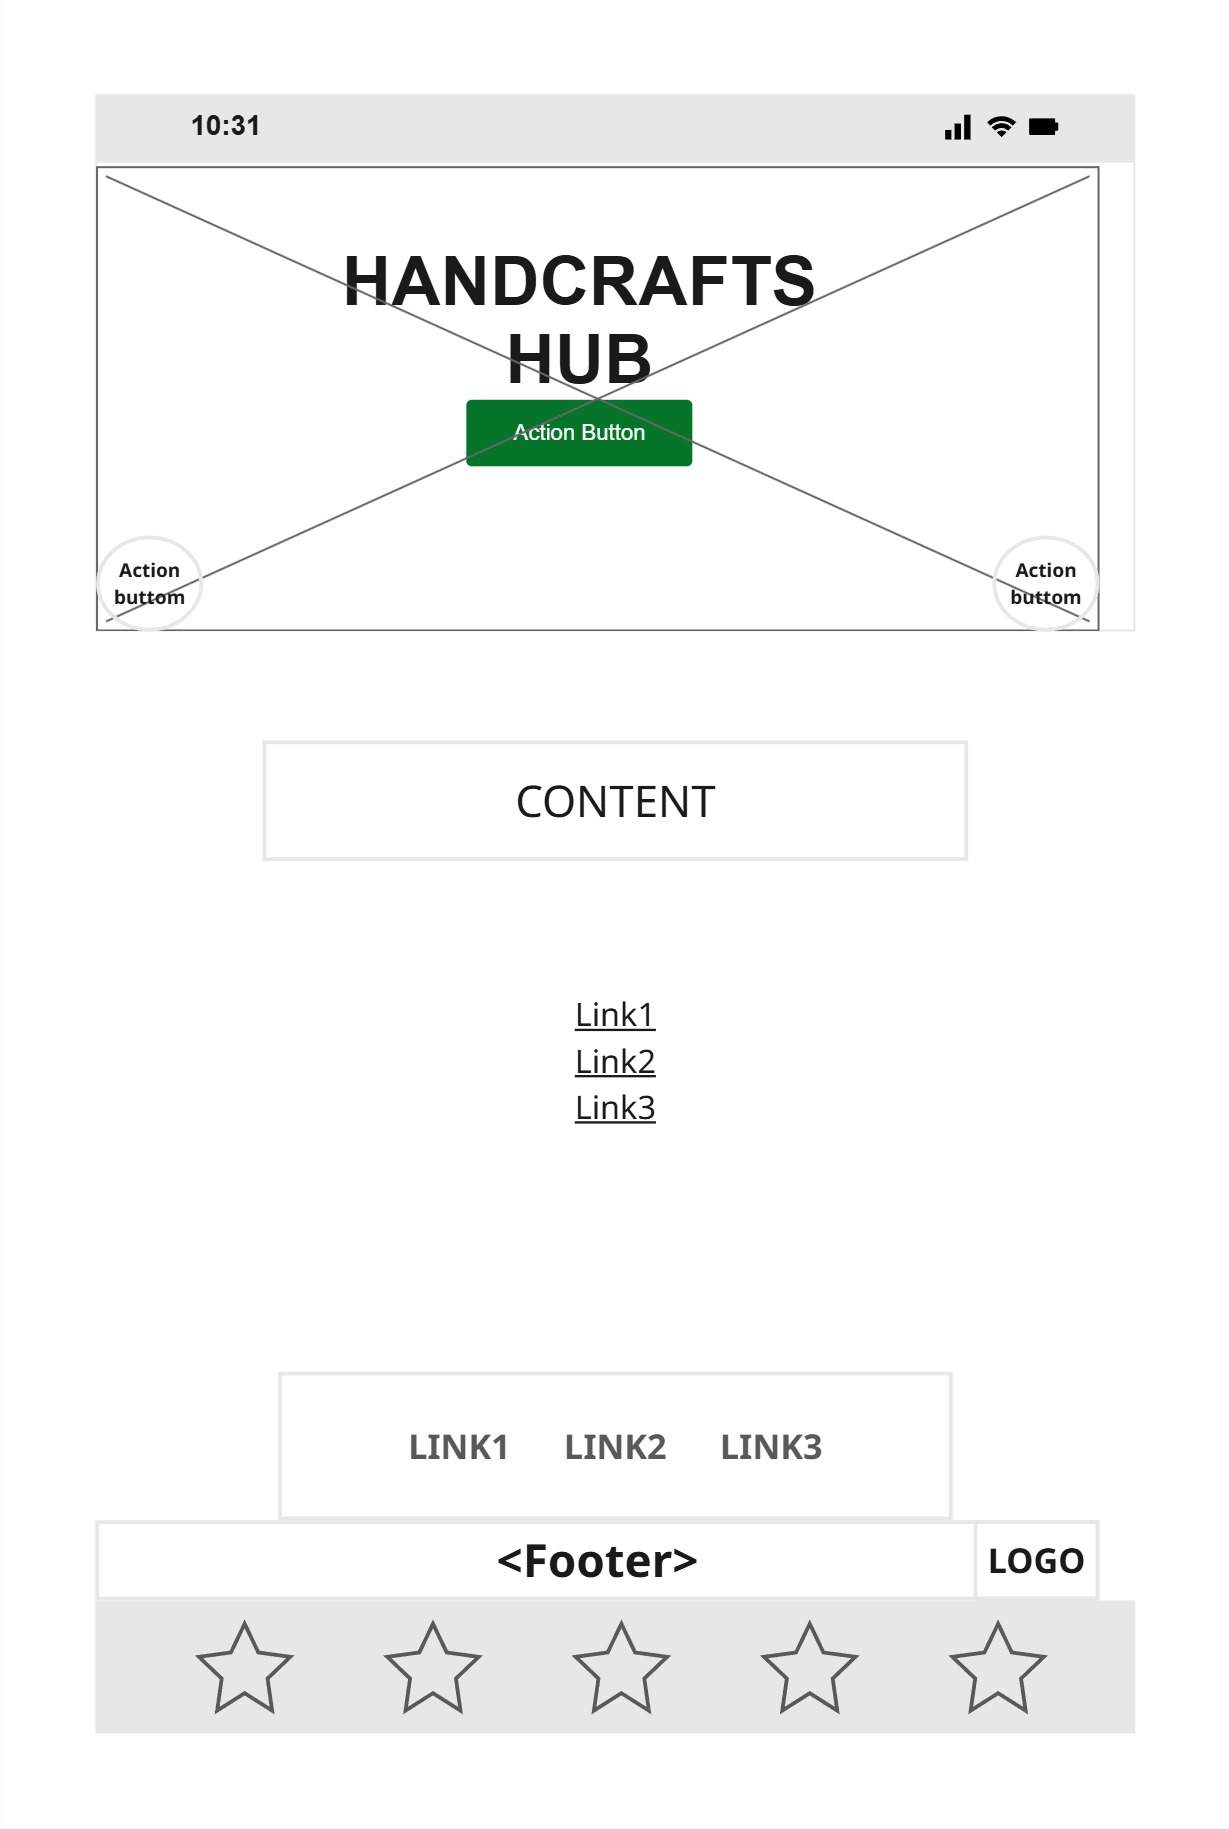
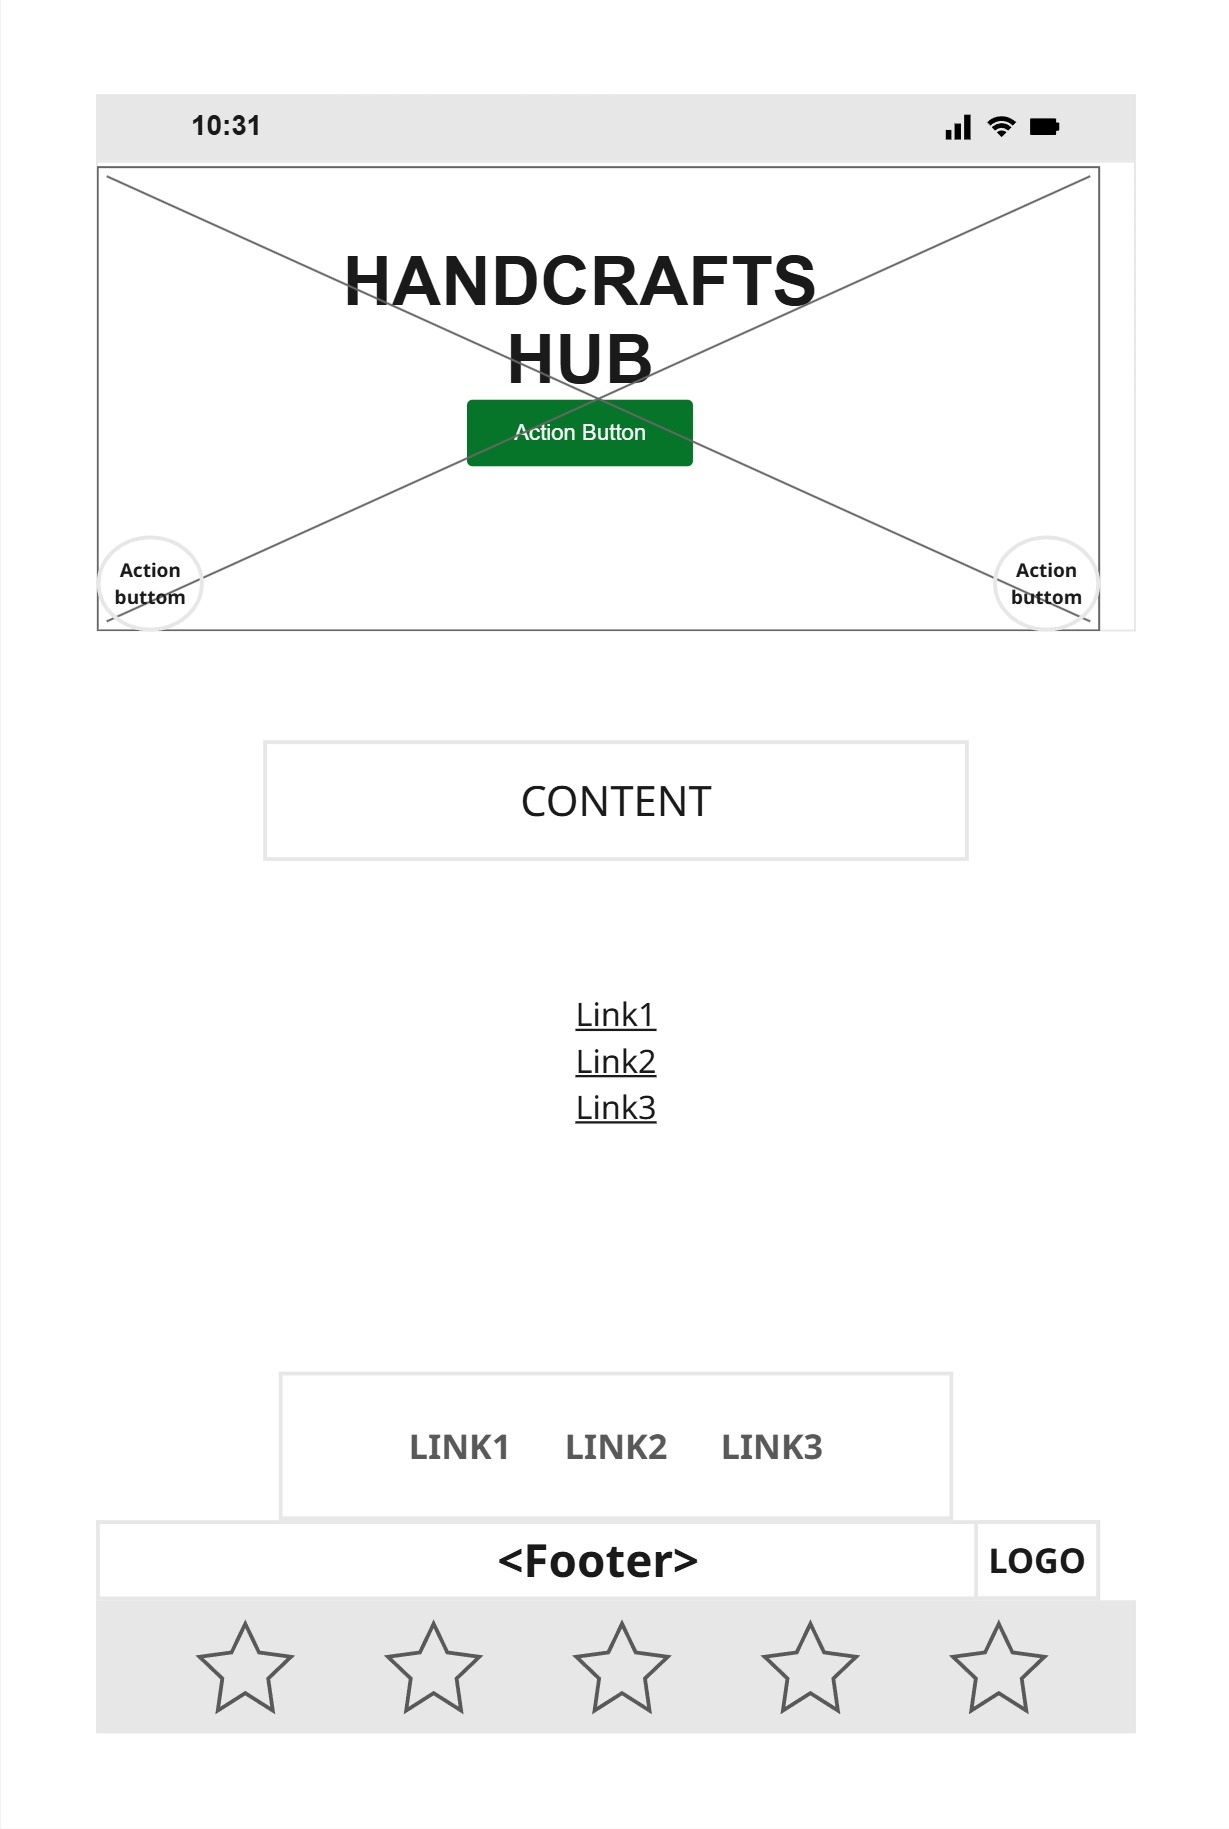
update the 1 Item menu
Added reflective.html on NAV bar

diff --git a/work_phase_3/index.html b/work_phase_3/index.html
@@ -25,9 +25,10 @@
         <!--Set up Page mobile & Desktop-->
         <nav id="nav-mobile" aria-label="Main Navigation">
             <ul>
-                <li><a href="../index.html"><span class="icon">🏠</span></a></li>
+                <li><a href="../index.html"aria-current="page"><span class="icon">🏠</span></a></li>
                 <li><a href="site_map.html"><span class="icon">🗂</span></a></li>
                 <li><a href="style_guide.html"><span class="icon">🎨</span></a></li>
+                <li><a href="reflective_design.html"><span class="icon">💭 </span></a></li>
                 <li><a href="ethical_response.html"><span class="icon">⚖</span></a></li>
                 <li><a href="genai_mt_acknowledgement.html"><span class="icon">🤖</span></a></li></ul>
                                                         
@@ -35,9 +36,10 @@
 
         <nav id="nav-desktop" aria-label="Main Navigation">
             <ul>
-                <li><a href="../index.html">WP3 Home</a></li>
+                <li><a href="../index.html"aria-current="page">WP3 Home</a></li>
                 <li><a href="site_map.html">Site Map</a></li>
                 <li><a href="style_guide.html">Style Guide</a></li>
+                <li><a href="reflective_design.html">Reflective</a></li>
                 <li><a href="ethical_response.html">Ethics Response</a></li>
                 <li><a href="genai_mt_acknowledgement.html">Gen AI</a></li>
             </ul>
@@ -78,11 +80,9 @@
                         <p>
                             The platform will enable users to connect and network with other members of the Handicrafts club.
                         </p>
-
                     </div>
                 </div>
             </section>
-            
         </main>
     </body>
 </html>

diff --git a/work_phase_3/style_guide.html b/work_phase_3/style_guide.html
@@ -39,6 +39,11 @@
                     >
                 </li>
                 <li>
+                    <a href="reflective_design.html"
+                        ><span class="icon">💭 </span></a
+                    >
+                </li>
+                <li>
                     <a href="ethical_response.html"
                         ><span class="icon">⚖</span></a
                     >
@@ -64,6 +69,7 @@
                         >Style Guide</a
                     >
                 </li>
+                <li><a href="reflective_design.html">Reflective </a></li>
                 <li><a href="ethical_response.html">Ethics Response</a></li>
                 <li><a href="genai_mt_acknowledgement.html">Gen AI</a></li>
             </ul>
@@ -118,7 +124,7 @@
                             alt="Visceral Card"
                         />
                         <h3>Behavioural</h3>
-                        
+
                         <p>
                             Designing for functionality covering key interactive
                             components including forms wit a focus om
@@ -142,7 +148,7 @@
                             alt="Visceral Card"
                         />
                         <h3>Reflective</h3>
-                        
+
                         <p>
                             Designing for meaning and identity covering how
                             users see themselves in the website including

diff --git a/work_phase_3/behavioural_design.html b/work_phase_3/behavioural_design.html
@@ -39,6 +39,11 @@
                     <a href="style_guide.html"><span class="icon">🎨</span></a>
                 </li>
                 <li>
+                    <a href="reflective_design.html"
+                        >Reflective<span class="icon">💭 </span></a
+                    >
+                </li>
+                <li>
                     <a href="ethical_response.html"
                         ><span class="icon">⚖</span></a
                     >
@@ -57,6 +62,9 @@
                 <li><a href="site_map.html">Site Map</a></li>
                 <li>
                     <a href="style_guide.html">Style Guide</a>
+                </li>
+                <li>
+                    <a href="reflective_design.html">Reflective </a>
                 </li>
                 <li><a href="ethical_response.html">Ethics Response</a></li>
                 <li><a href="genai_mt_acknowledgement.html">Gen AI</a></li>
@@ -313,7 +321,6 @@
                             <p id="form-feedback" aria-level="polite"></p>
 
                             <!-- member's data shown -->
-                            
                         </article>
                     </div>
                 </div>

diff --git a/work_phase_3/visceral_design.html b/work_phase_3/visceral_design.html
@@ -35,8 +35,11 @@
                     <a href="site_map.html"><span class="icon">🗂</span></a>
                 </li>
                 <li>
-                    <a href="style_guide.html" aria-current="page"
-                        ><span class="icon">🎨</span></a
+                    <a href="style_guide.html"><span class="icon">🎨</span></a>
+                </li>
+                <li>
+                    <a href="reflective_design.html"
+                        ><span class="icon">💭 </span></a
                     >
                 </li>
                 <li>
@@ -58,6 +61,9 @@
                 <li><a href="site_map.html">Site Map</a></li>
                 <li>
                     <a href="style_guide.html">Style Guide</a>
+                </li>
+                <li>
+                    <a href="reflective_design.html">Reflective </a>
                 </li>
                 <li><a href="ethical_response.html">Ethics Response</a></li>
                 <li><a href="genai_mt_acknowledgement.html">Gen AI</a></li>

diff --git a/work_phase_3/reflective_design.html b/work_phase_3/reflective_design.html
@@ -40,6 +40,11 @@
                     <a href="style_guide.html"><span class="icon">🎨</span></a>
                 </li>
                 <li>
+                    <a href="reflective_design.html" aria-current="page"
+                        ><span class="icon">💭 </span></a
+                    >
+                </li>
+                <li>
                     <a href="ethical_response.html"
                         ><span class="icon">⚖</span></a
                     >
@@ -58,6 +63,11 @@
                 <li><a href="site_map.html">Site Map</a></li>
                 <li>
                     <a href="style_guide.html">Style Guide</a>
+                </li>
+                <li>
+                    <a href="reflective_design.html" aria-current="page"
+                        >Reflective
+                    </a>
                 </li>
                 <li><a href="ethical_response.html">Ethics Response</a></li>
                 <li><a href="genai_mt_acknowledgement.html">Gen AI</a></li>

diff --git a/work_phase_3/site_map.html b/work_phase_3/site_map.html
@@ -39,6 +39,11 @@
                     <a href="style_guide.html"><span class="icon">🎨</span></a>
                 </li>
                 <li>
+                    <a href="reflective_design.html"
+                        ><span class="icon">💭 </span></a
+                    >
+                </li>
+                <li>
                     <a href="ethical_response.html"
                         ><span class="icon">⚖</span></a
                     >
@@ -58,6 +63,9 @@
                     <a href="site_map.html" aria-current="page">Site Map</a>
                 </li>
                 <li><a href="style_guide.html">Style Guide</a></li>
+                <li>
+                    <a href="reflective_design.html">Reflective </a>
+                </li>
                 <li><a href="ethical_response.html">Ethics Response</a></li>
                 <li><a href="genai_mt_acknowledgement.html">Gen AI</a></li>
             </ul>

diff --git a/work_phase_3/ethical_response.html b/work_phase_3/ethical_response.html
@@ -38,6 +38,11 @@
                     <a href="style_guide.html"><span class="icon">🎨</span></a>
                 </li>
                 <li>
+                    <a href="reflective_design.html"
+                        ><span class="icon">💭 </span></a
+                    >
+                </li>
+                <li>
                     <a href="ethical_response.html" aria-current="page"
                         ><span class="icon">⚖</span></a
                     >
@@ -60,6 +65,9 @@
                 <li><a href="site_map.html">Site Map</a></li>
                 <li>
                     <a href="style_guide.html">Style Guide</a>
+                </li>
+                <li>
+                    <a href="reflective_design.html">Reflective </a>
                 </li>
                 <li>
                     <a href="ethical_response.html" aria-current="page"

diff --git a/work_phase_3/genai_mt_acknowledgement.html b/work_phase_3/genai_mt_acknowledgement.html
@@ -36,6 +36,7 @@
                 <li>
                     <a href="style_guide.html"><span class="icon">🎨</span></a>
                 </li>
+                <a href="reflective_design.html">Reflective </a>
                 <li>
                     <a href="ethical_response.html"
                         ><span class="icon">⚖</span></a
@@ -54,6 +55,7 @@
                 <li><a href="index.html">WP3 Home</a></li>
                 <li><a href="site_map.html">Site Map</a></li>
                 <li><a href="style_guide.html">Style Guide</a></li>
+                <li><a href="reflective_design.html">Reflective</a></li>
                 <li><a href="ethical_response.html">Ethics Response</a></li>
                 <li>
                     <a href="genai_mt_acknowledgement.html" aria-current="page"
